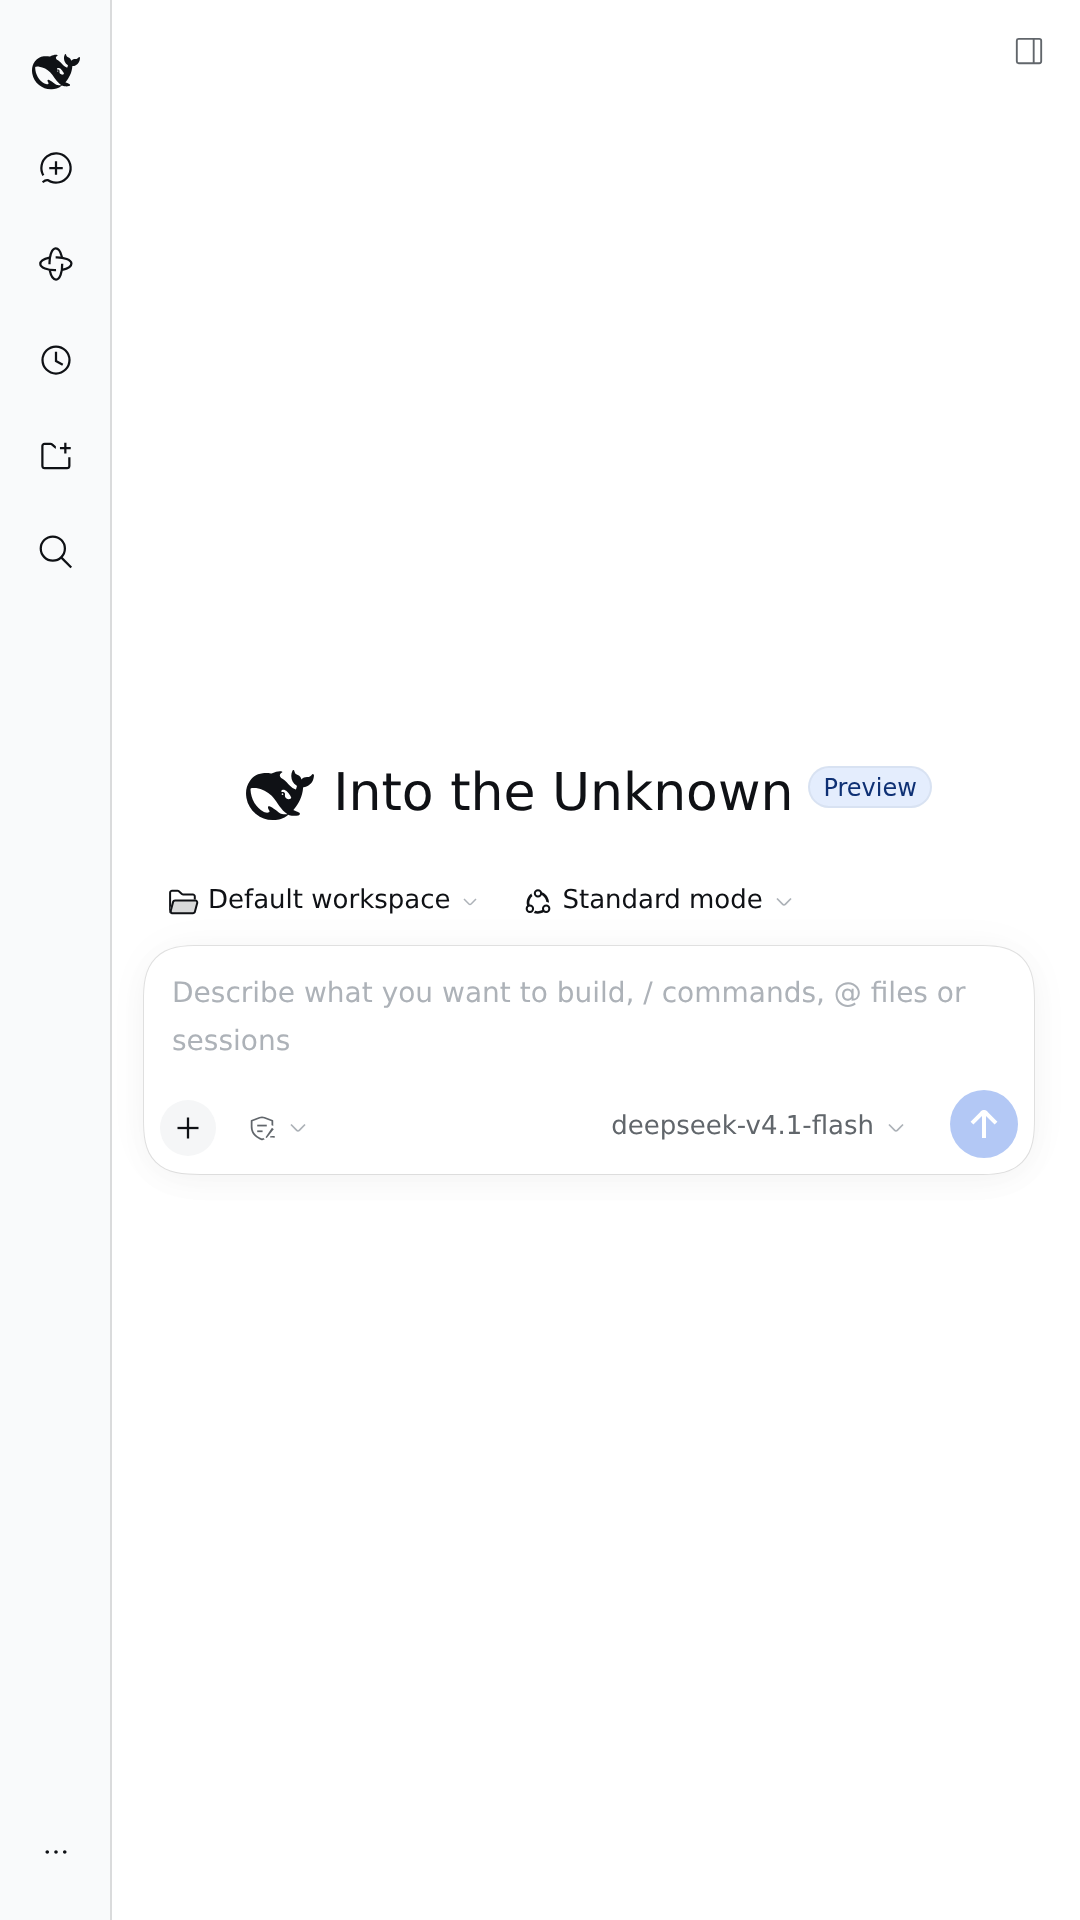
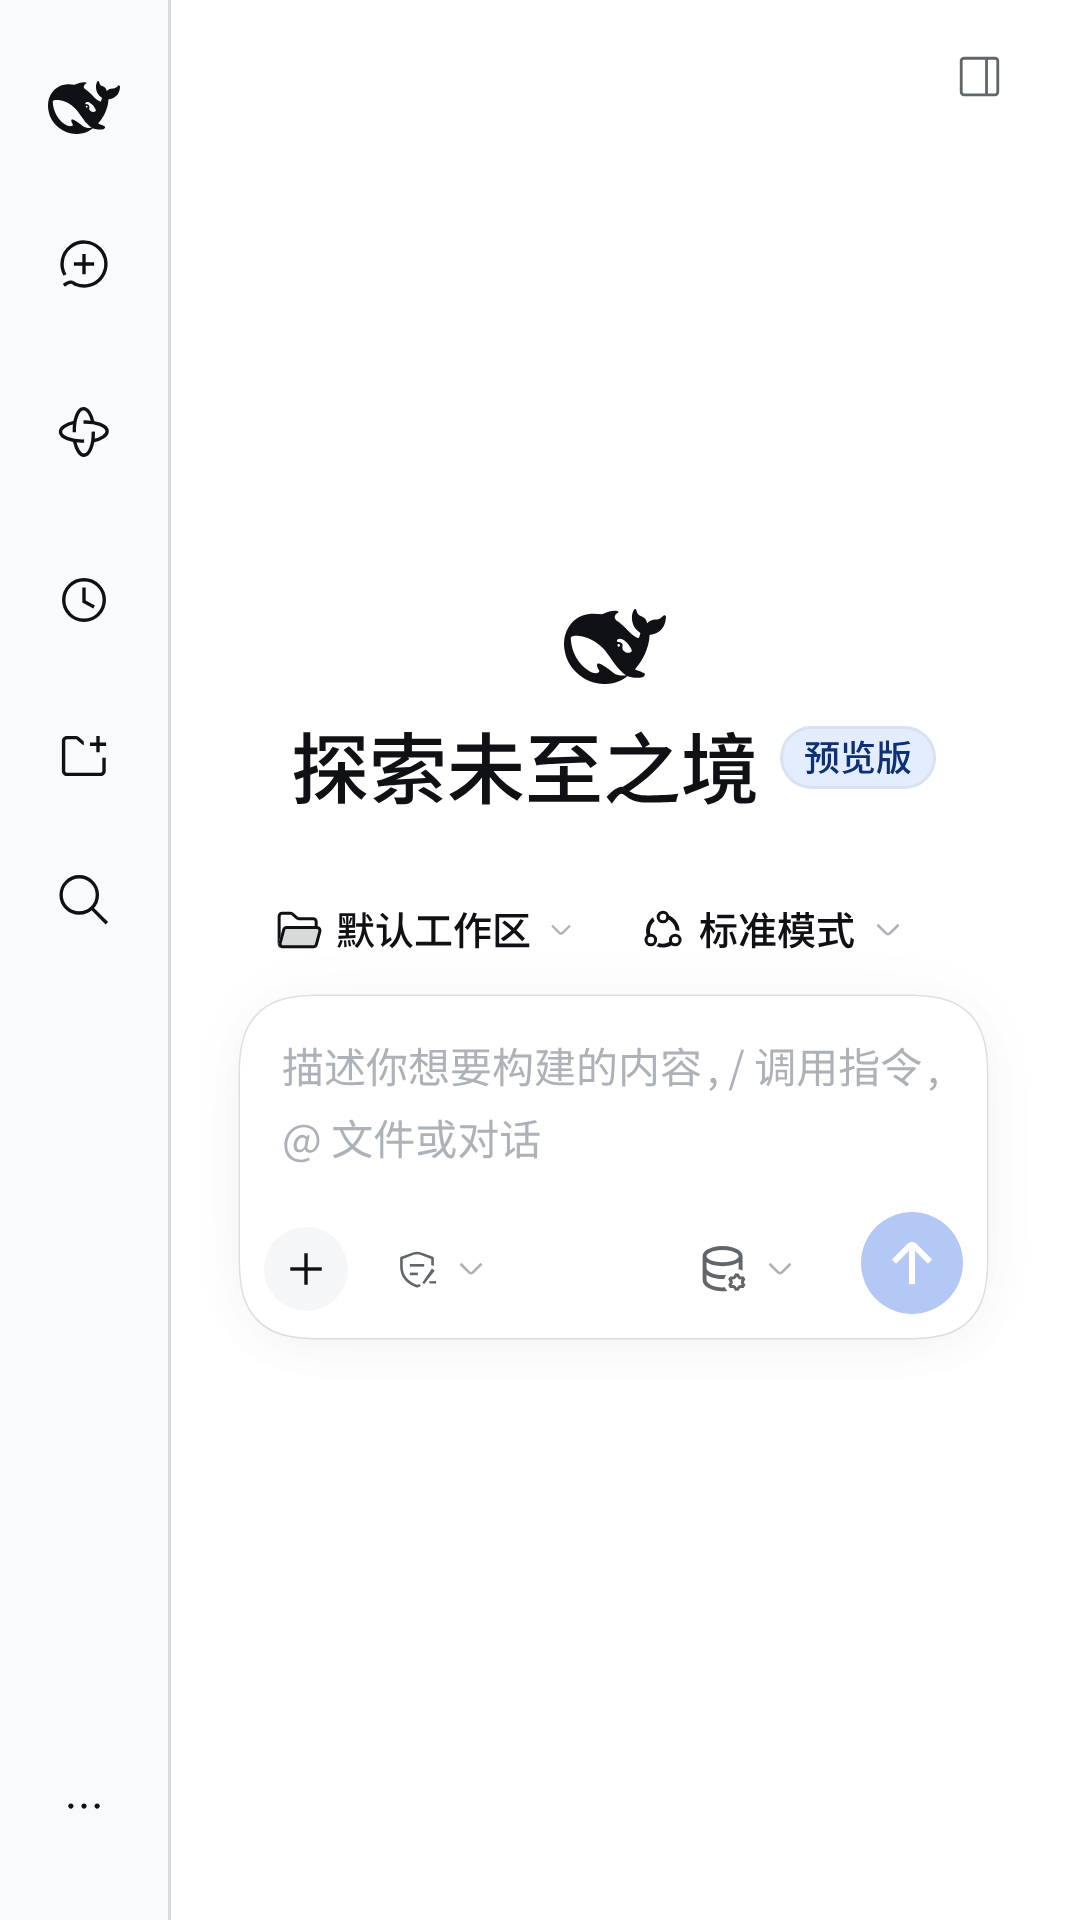
feat(移动端): 窄屏适配补丁 + 中文截图，发版 1.1.9

diff --git a/content/lazycat-injects/dsh-mobile.js b/content/lazycat-injects/dsh-mobile.js
@@ -1,0 +1,130 @@
+// 手机端适配补丁（浏览器侧注入）
+//
+// 上游 dsh 的 Web UI 是桌面优先的。窄屏（<=640px）下有四个真实问题：
+//   1. 外壳是 grid：`<侧边栏> minmax(0,1fr) <右侧栏>`，侧边栏展开时 JS 把第一列
+//      从 56px 改成 280px。390px 宽的手机里，对话列被压到 110px，每行只剩三四个字。
+//   2. 对话区结构是 body > scrollBody（滚动）+ composerSeat（sticky 输入区），
+//      两者叠在同一个盒子里而 scrollBody 的 padding-bottom 是 0；手机上输入框
+//      因为工具条换行变得更高，正文就从半透明输入框底下透出来。
+//   3. 没有视口适配：100vh 忽略移动浏览器地址栏和底部小白条，下拉还会触发回弹/刷新。
+//   4. 侧栏展开后不会自己收起（桌面思维），用户挑完会话还停留在被压窄的状态。
+//
+// 本补丁只处理窄屏，桌面宽度下所有规则都不生效，保持上游原样。
+(function () {
+  'use strict';
+
+  var NARROW = '(max-width: 640px)';
+  var RAIL = 56; // 保持上游折叠态宽度：改小会让 44px 触摸目标撑破网格列
+
+  var CSS = [
+    '@media ' + NARROW + ' {',
+    // ① 第一列恒为图标栏宽度；!important 压过 JS 写在内联 style 上的 grid-template-columns
+    '  [class*="frame"] {',
+    '    grid-template-columns: ' + RAIL + 'px minmax(0, 1fr) minmax(0, 0px) !important;',
+    '    height: 100dvh !important; box-sizing: border-box;',
+    '    padding-top: env(safe-area-inset-top, 0px);',
+    '    padding-bottom: env(safe-area-inset-bottom, 0px);',
+    '    padding-left: env(safe-area-inset-left, 0px);',
+    '    padding-right: env(safe-area-inset-right, 0px);',
+    '  }',
+    // ② 侧栏改成 fixed 后退出网格流，后面两列会整体左移一格，必须显式钉住列位
+    '  [class*="centerCol"] { grid-column: 2 !important; padding-inline: 8px; }',
+    '  [class*="rightbarCol"] { grid-column: 3 !important; }',
+    // ③ 侧栏脱离网格流成为浮层：收起=图标栏，展开=抽屉覆盖在内容之上，不再挤压对话列
+    '  [class*="sidebarCol"] {',
+    '    position: fixed !important; left: 0; top: 0; bottom: 0;',
+    '    width: max-content !important; max-width: 88vw;',
+    '    overflow: visible !important; z-index: 40;',
+    '    padding-left: env(safe-area-inset-left, 0px);',
+    '  }',
+    // ④ 触摸目标：只放大图标栏里的按钮；内容区按钮放大后会把模型名等文字挤掉
+    '  [class*="sidebarCol"] button, [class*="sidebarCol"] [role="button"] { min-height: 44px; }',
+    // 注：曾尝试给滚动区加 padding-bottom 让位，但输入区是 sticky 粘在 padding 边缘，
+    // 加 padding 反而把它顶到页面中部，故不做此修正（玻璃拟态透字是上游原生表现）。
+    // ⑤ 输入框下方统计条（轮次/吞吐/缓存命中）在窄屏会被省略号截断，缩字号换完整
+    '  [class*="composerStack"] [class*="dock"],',
+    '  [class*="composerStack"] [class*="meta"] { font-size: 11px !important; }',
+    '}',
+    // 粗指针设备通用：禁掉下拉刷新回弹与点击高亮
+    '@media (pointer: coarse) {',
+    '  html, body { overscroll-behavior: none; -webkit-tap-highlight-color: transparent; }',
+    '}'
+  ].join('\n');
+
+  // 注入点可能早于 <head> 存在（平台在 document-start 执行本脚本）：
+  // 拿不到宿主就返回 false，由 boot 里的定时器或 DOMContentLoaded 补一次。
+  function injectCss() {
+    if (document.getElementById('lzc-dsh-mobile')) return true;
+    var host = document.head || document.documentElement;
+    if (!host) return false;
+    var style = document.createElement('style');
+    style.id = 'lzc-dsh-mobile';
+    style.textContent = CSS;
+    host.appendChild(style);
+    return true;
+  }
+
+  // iOS 上 env(safe-area-inset-*) 只在 viewport-fit=cover 时才有非零值
+  function patchViewport() {
+    var meta = document.querySelector('meta[name="viewport"]');
+    if (!meta || meta.content.indexOf('viewport-fit') !== -1) return;
+    meta.content = meta.content + ', viewport-fit=cover';
+  }
+
+  function isNarrow() {
+    return typeof matchMedia !== 'undefined' && matchMedia(NARROW).matches;
+  }
+
+
+  function sidebar() {
+    return document.querySelector('[class*="sidebarCol"]');
+  }
+
+  function isSidebarOpen() {
+    var sb = sidebar();
+    return !!sb && sb.getBoundingClientRect().width > RAIL + 40;
+  }
+
+  function collapseSidebar() {
+    var toggle =
+      document.querySelector('[class*="_toggle"][aria-label]') ||
+      document.querySelector('[aria-label="收起侧边栏"]');
+    if (toggle) toggle.click();
+  }
+
+  // 窄屏下：点抽屉里的条目或点内容区都把抽屉收起（上游是常驻侧栏的桌面行为）
+  function onClick(event) {
+    if (!isNarrow() || !isSidebarOpen()) return;
+    var sb = sidebar();
+    var target = event.target;
+    if (!sb || !target || typeof target.closest !== 'function') return;
+    // 折叠按钮自己交给上游处理，避免连点两次互相抵消
+    if (target.closest('[class*="_toggle"]') || target.closest('[aria-label="收起侧边栏"]')) return;
+    // 图标栏本身（打开各面板的按钮）不收起，否则刚打开的面板立刻被关掉
+    var box = sb.getBoundingClientRect();
+    if (event.clientX - box.left < RAIL + 4) return;
+    setTimeout(collapseSidebar, 40);
+  }
+
+  var booted = false;
+  function boot() {
+    if (booted) return;
+    booted = true;
+    if (!injectCss()) {
+      var tries = 0;
+      var timer = setInterval(function () {
+        if (injectCss() || ++tries > 40) clearInterval(timer);
+      }, 50);
+    }
+    patchViewport();
+    document.addEventListener('click', onClick, true);
+  }
+
+  if (document.readyState === 'loading') {
+    // 样式尽早注入，避免首帧闪一下桌面布局
+    injectCss();
+    document.addEventListener('DOMContentLoaded', boot, { once: true });
+  } else {
+    boot();
+  }
+})();

diff --git a/README.md b/README.md
@@ -25,10 +25,10 @@ dsh 官方只发 npm 包，不发容器镜像；官方商店只接受 `registry.
 
 ## 商店现状
 
-- 在架基线 `v1.1.3`（#19726 已通过）；当前在审 **#20833 / v1.1.8**（2026-10-19 提交，待审）。
+- 在架基线 `v1.1.3`（#19726 已通过）；**#20833 / v1.1.8** 在审（2026-10-19 提交）；`v1.1.9` 起补手机端适配，待发版重提。
 - 应用图标 = DeepSeek 鲸鱼原图（`icon.png`，9634 B，sha256 `407db6f4e288…`），已核验打进 LPK 并装到 `lzcbox`。
 - `v1.1.8` 的运行时：dsh `0.2.1-rc.2` + node `v24.22.0`，容器内 `curl 127.0.0.1:3080/` 返回 303（鉴权代理重定向，正常）。
-
+- 商店截图：`screenshots/` 内 6 张（PC 1920×1080 ×3、手机 1080×1920 ×3），中文界面，由 `tools/shoot-cn.mjs` 生成。
 ## 需要配置的东西
 
 - Secret `LZC_API_TOKEN`：懒猫账号令牌，只在「中转镜像」和（可选）「提审」两步用到。

diff --git a/CHANGELOG.md b/CHANGELOG.md
@@ -1,5 +1,15 @@
 # 变更记录
 
+## 1.1.9（2026-10-19）
+
+- 新增窄屏（≤640px）适配补丁 `content/lazycat-injects/dsh-mobile.js`：上游 Web UI 是
+  桌面优先布局，手机竖屏下侧边栏展开会把对话列从 334px 压到 80px（每行只剩三四个字）。
+  补丁在窄屏下把侧边栏改成浮层抽屉（覆盖内容而不挤压），并补上安全区避让、
+  100dvh、图标栏 44px 触摸目标、点选后自动收起，以及禁用下拉回弹
+- 桌面宽度下所有规则不生效，保持上游原样
+- 商店截图改为中文界面，并补拍手机竖屏（1080×1920）三张
+- dsh `0.2.1-rc.2`；内置插件市场 dshmarket `1.66.42`（与 1.1.8 相同）
+
 ## 1.1.8（2026-10-19）
 
 - dsh `0.2.1-rc.2`
